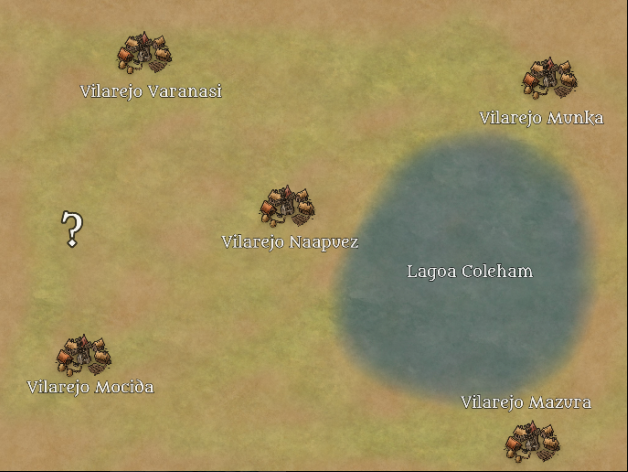
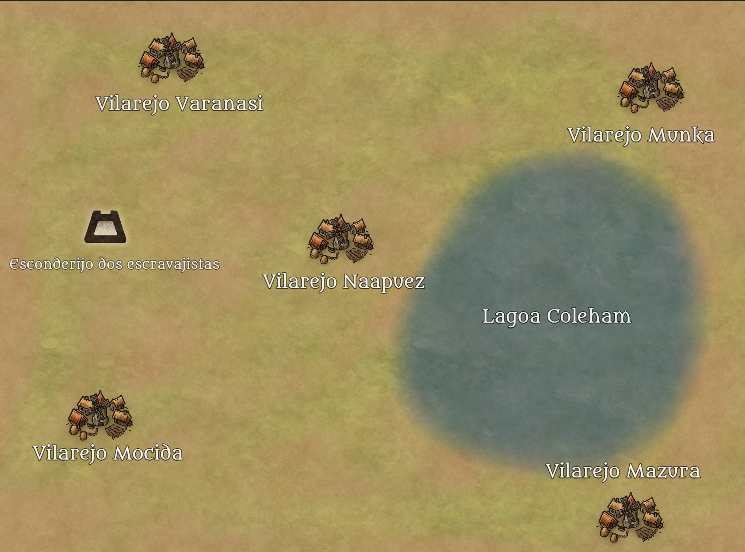
15 sessao

diff --git a/src/app/main/sessoes/sessoes.component.html b/src/app/main/sessoes/sessoes.component.html
@@ -89,5 +89,20 @@
               <p>No caminho eles salvam um criança goblinoide que estava sendo perseguida por um corruptor. Ela teve os membros fracos de sua tribo mortos e está a procura de seu pai que está, junto com os guerreiros da tribo, desaparecido.</p>
               <p>Chegando na região esverdejante, eles encontram um lago assombrado por elementais que impedem os cidadãos de pescar. O grupo pega um barco emprestado e mata a anomalia d'àgua, acabando com a aparição dos elementais.</p>
             </accordion-group>
+            <accordion-group>
+              <div accordion-heading class="header">14° sessão 19/09</div>
+              <p>(um mês de campanha)</p>
+              <p>O grupo continua resolvendo os problemas de varios outros vilarejos pela região esverdejante, porém, uma sensação de impotencia paira no grupo. Do que adiante eles resolverem os problemas agora, se uma vez que eles forem embora, os problemas só continuarão a acontecer?</p>
+              <p>Sid tem um reencontro emocionante com a sua familia. O grupo passa a noite na cada da esposa de Sid enquanto decidem ainda o que fazer.</p>
+            </accordion-group>
+            <accordion-group>
+              <div accordion-heading class="header">15° sessão 21/09</div>
+              <p>Enquanto iam para a outra vila, o grupo se depara com um homem levando um goblin dentro de uma jaula. O grupo resolve resgatar o goblin e interrogar o homem de para onde ele estava levando-o.</p>
+              <p>Depois de intimidado, o homem guia o grupo de aventureiros até o esconderijo de uns traficantes de goblinoides. O goblin que estava na jaula resolve acompanhar o grupo.</p>
+              <p>Chegando lá, eles descobrem que os escravistas estão se escondendo dentro de uma caverna. Eles têm mais de 50 hobgoblins e bugbears aprisionados, todos em boa forma.</p>
+              <p>Depois de uma intensiva batalha e mortal batalha, eles matam todos os escravistas e libertam os goblinoides. Sid se lembra que os vilarejos que andam sofrendo com a aparição de criaturas não possuem nenhum tipo de proteção, e por isso que eles estão com tantos problemas. Por causa disso, ele propõe que os goblinoides, que são fortes e guerreiros, servicem como guardas nesses vilarejos.</p>
+              <p>Não tendo mais pra onde ir, os goblinoides aceitam, e eles se preparam para voltar, quando uma criatura preta e armada aparece diante dos aventureiros enfraquecidos e machucados, mas ela é rapidamente morta u=por uma figura quase imperceptivel. Eles percebem que ela é uma aventureira de platina e aparentemente ela estava ali para acabar com o trafico de goblinoides também. Sem muitas delongas, ela vai embora.</p>
+              <p>O grupo passa de vilarejo em vilarejo entregando os novos guerreiros goblinoides para servirem de guardas e, com a missão cumprida, começam a viagem de volta para o ducado.</p>
+            </accordion-group>
   </accordion>
 </div>

diff --git a/src/app/main/npcs/aleatorios/aleatorios.component.html b/src/app/main/npcs/aleatorios/aleatorios.component.html
@@ -36,4 +36,22 @@
             </p>
         </div>
     </div>
+    <div class="card col-md-3">
+        <img class="card-img-top" src="../../../../assets/imgs/npcs/Endall.jpg" alt="Card image cap">
+        <div class="card-body">
+            <h3>Endall</h3>
+            <p class="card-text">
+                Um aventureiro de prata que o grupo encontrou num bar de um dos vilarejos da região esverdejante.
+            </p>
+        </div>
+    </div>
+    <div class="card col-md-3">
+        <img class="card-img-top" src="../../../../assets/imgs/npcs/Fantasma.png" alt="Card image cap">
+        <div class="card-body">
+            <h3>???</h3>
+            <p class="card-text">
+                Uma aventureira de platina que o grupo encontrou na saida do esconderijo dos escravajistas na região esverdejante.
+            </p>
+        </div>
+    </div>
 </div>
